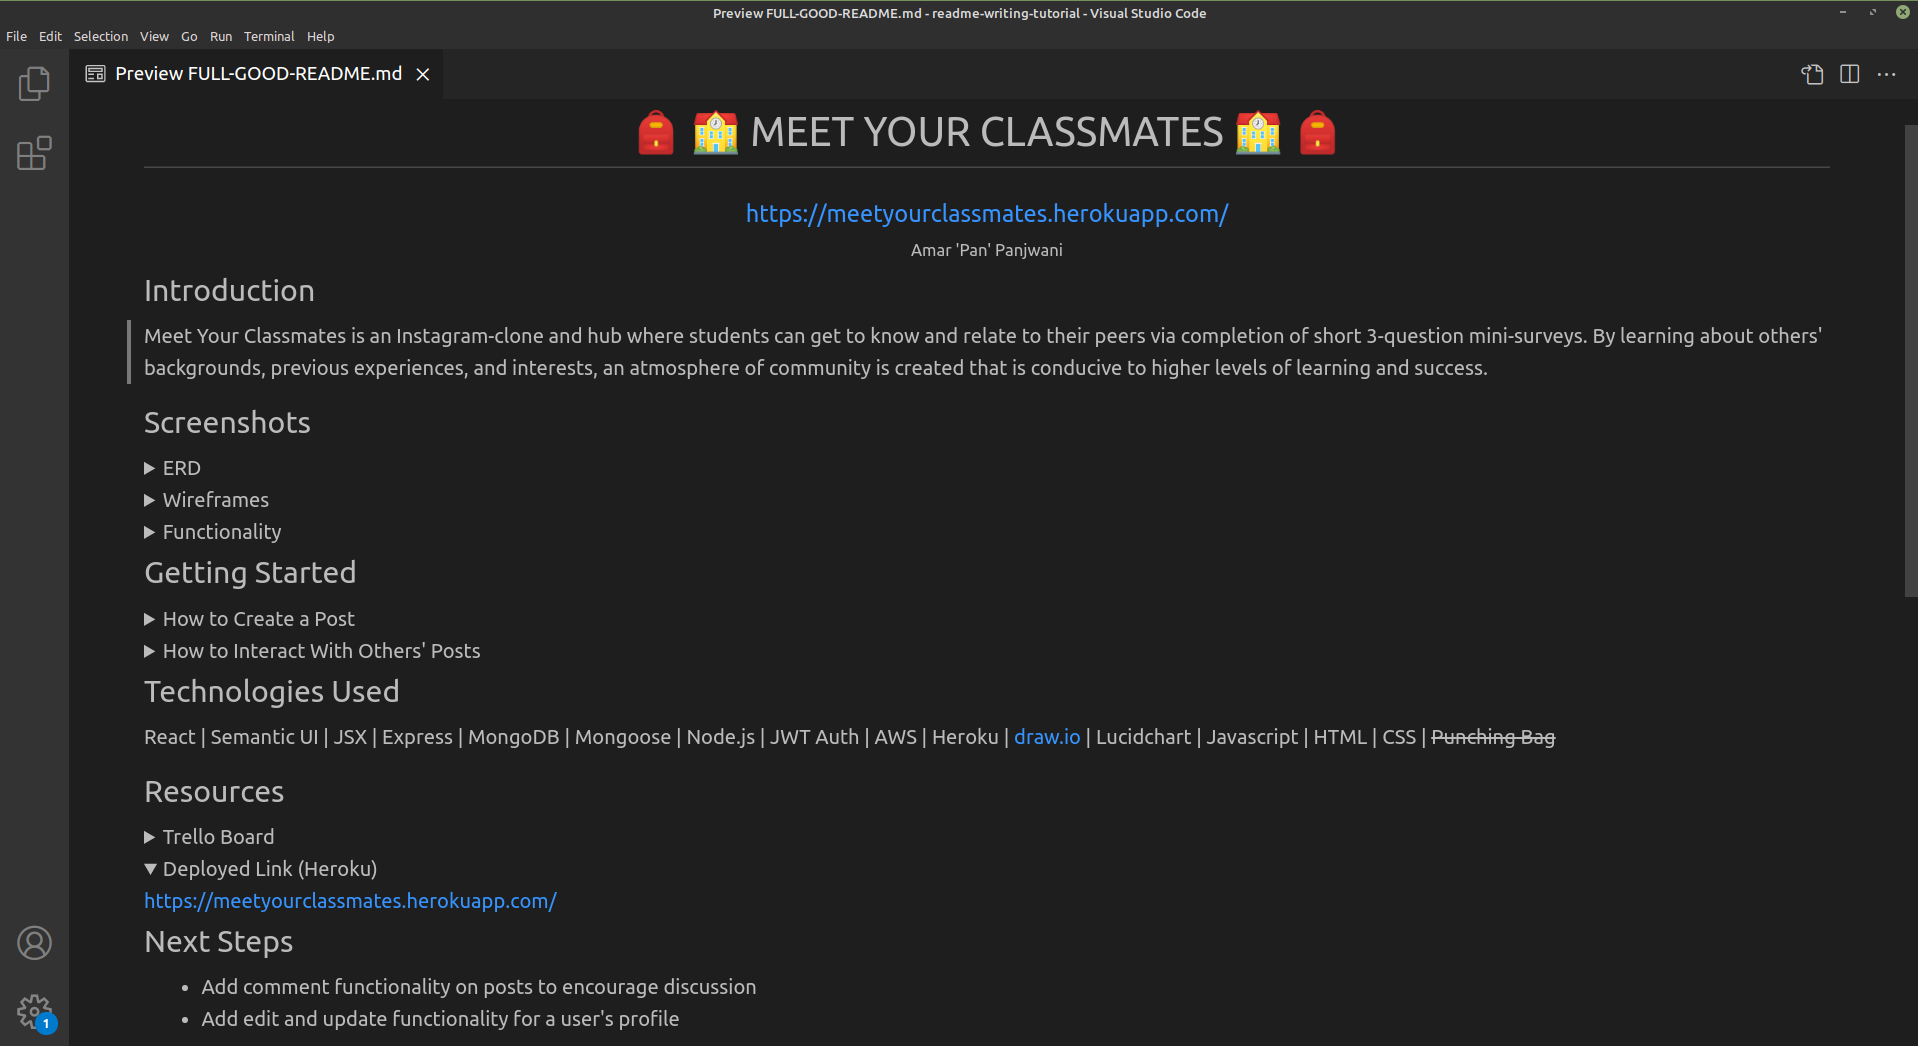
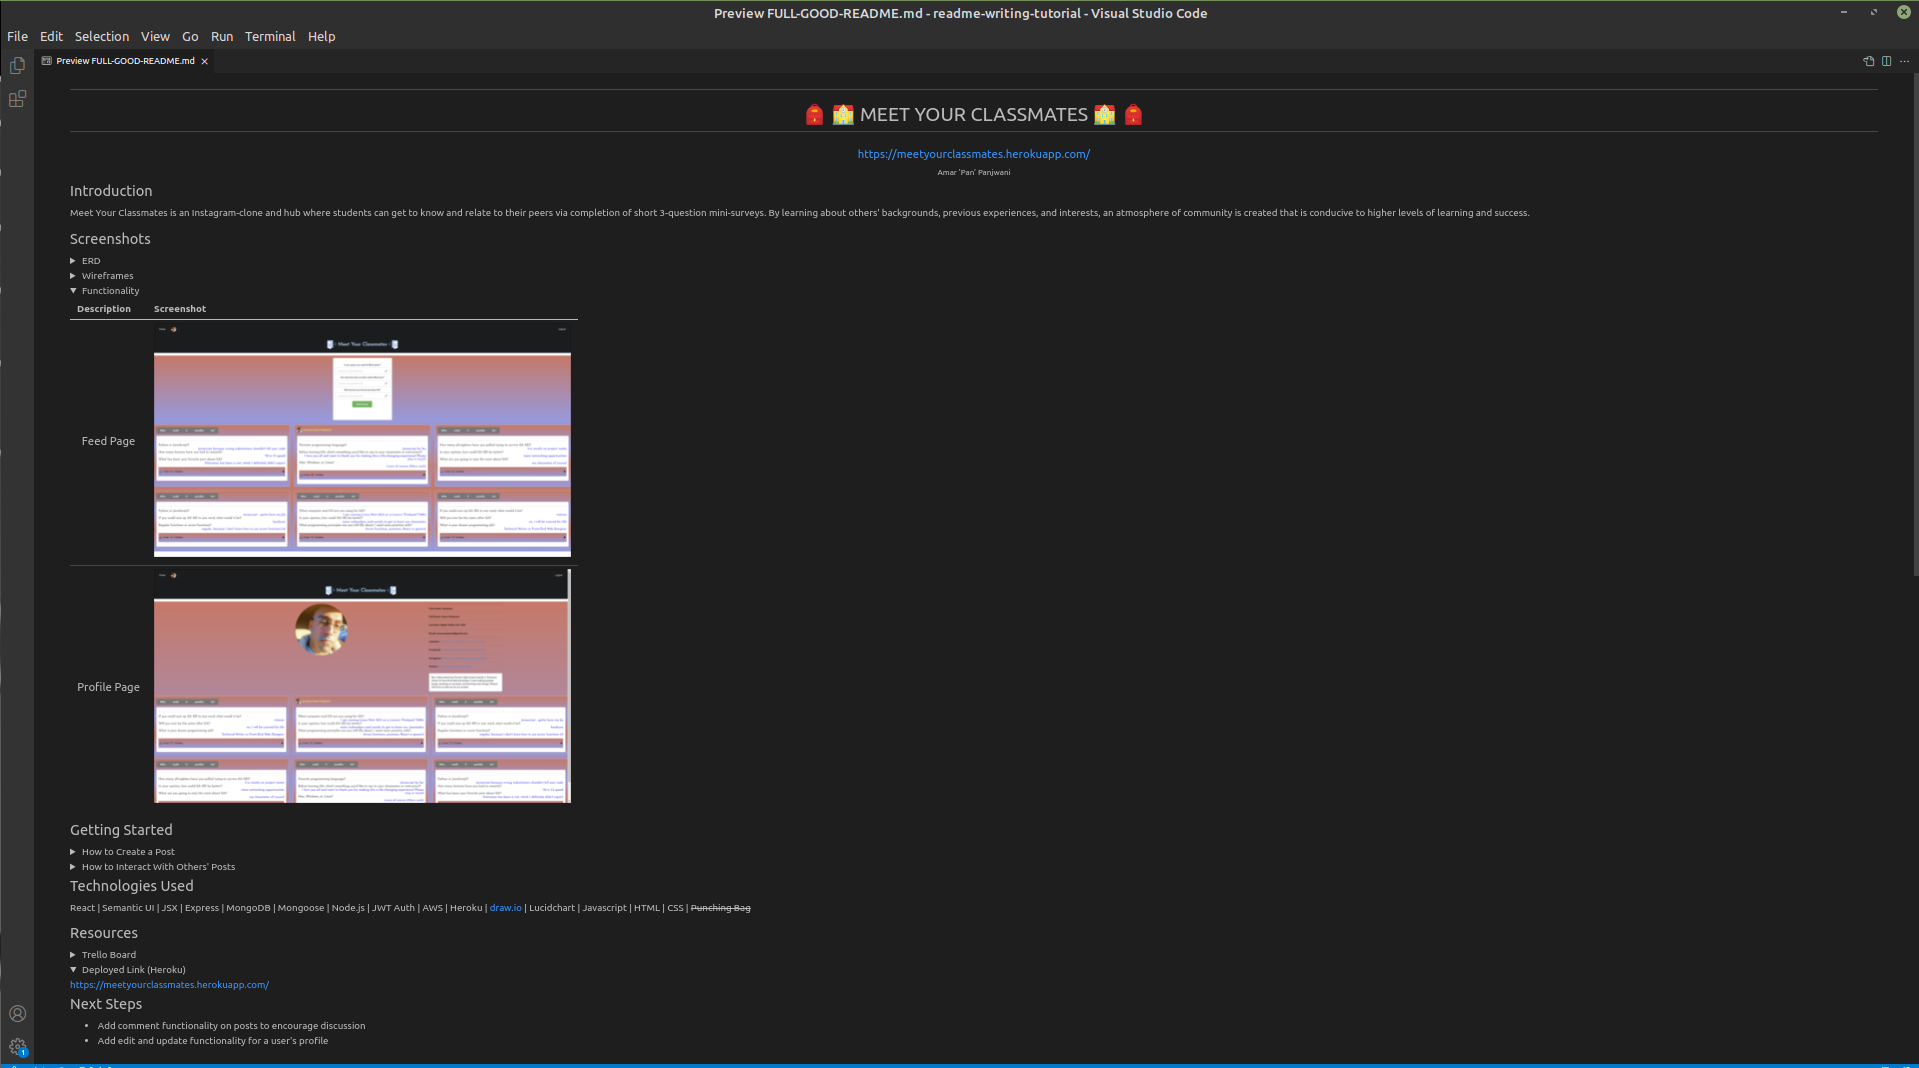
minor edits and update full good readme to show opened functionality screenshots

diff --git a/README.md b/README.md
@@ -1,7 +1,7 @@
-# <h1 align="center">How to Fix a README</h1>
+# <h1 align="center">How to Fix a GA Bootcamp Project README</h1>
 <!-- ###### <h6 align="center">by</h6> -->
 ###### <h6 align="center"> [Amar Pan - GA SEI '21](https://www.linkedin.com/in/amarpan/)</h6>
-The README is often the most overlooked and shunned aspect of a web dev project. And yet, it is what employers directly look at when assessing one's technical competency as a software engineer.
+The README is often the most overlooked and shunned aspect of a web dev project, frequently left until the very last minute. And yet, it is what employers directly look at when assessing one's technical competency as a software engineer.
 
 Thus, today we'll take a look at how to clean-up an existing README so that it becomes eye-candy rather than an eye-sore.   
 
@@ -21,8 +21,8 @@ Thus, today we'll take a look at how to clean-up an existing README so that it b
 |            | Instructions |
 |------------|--------------|
 | Note:      | Each `#` stands for a header of that number in HTML. | 
-|            | Ex. `#` is equivalent to \<h1>. |
-|            | Ex. `######` is equivalent to \<h6>.|
+|            | Ex. `#` is equivalent to `<h1>` |
+|            | Ex. `######` is equivalent to `<h6>`|
 | Note:      | Integrate styling with `<h1 align="center">` to center text. |
 | Note:      | Add your deployed link directly to the top here - many users won't scroll all the way down to find it.
 | Note:      | Use emojis by typing in `:emojiname:` Ex. `:school:` ---> :school:

diff --git a/markdowns/FULL-GOOD-README.md b/markdowns/FULL-GOOD-README.md
@@ -1,5 +1,5 @@
 # <h1 align="center">:school_satchel: :school: MEET YOUR CLASSMATES :school: :school_satchel: </h1>
- #### <h3 align="center">https://meetyourclassmates.herokuapp.com/</h3>
+### <h3 align="center">https://meetyourclassmates.herokuapp.com/</h3>
  <h5 align="center">Amar 'Pan' Panjwani</h5>
 
 ## Introduction
@@ -27,7 +27,7 @@ Meet Your Classmates is an Instagram-clone and hub where students can get to kno
  
 </details>
 
-<details>
+<details open>
  <summary>Functionality</summary>
  
  | Description | Screenshot |

diff --git a/markdowns/screenshots/BAD-SCREENSHOTS.md b/markdowns/screenshots/BAD-SCREENSHOTS.md
@@ -1,4 +1,4 @@
 ## Screenshots
-<!-- Make screenshots all different sizes -->
-![Screenshot of home page](https://github.com/amarpan/meet-your-classmates/raw/main/public/Screenshots/ERD.MYC.png)   
-![Screenshot of Profile](https://github.com/amarpan/meet-your-classmates/raw/main/public/Screenshots/Homepage.Wireframe.MYC.png)
+
+![ERD](https://github.com/amarpan/meet-your-classmates/raw/main/public/Screenshots/ERD.MYC.png)   
+![Feed Page](https://github.com/amarpan/meet-your-classmates/raw/main/public/Screenshots/FeedPage.png)

diff --git a/markdowns/header/GOOD-HEADER.md b/markdowns/header/GOOD-HEADER.md
@@ -1,3 +1,3 @@
 # <h1 align="center">:school_satchel: :school: MEET YOUR CLASSMATES :school: :school_satchel: </h1>
- #### <h3 align="center">https://meetyourclassmates.herokuapp.com/</h3>
- <h5 align="center">Amar 'Pan' Panjwani</h5>
+### <h3 align="center">https://meetyourclassmates.herokuapp.com/</h3>
+##### <h5 align="center">Amar 'Pan' Panjwani</h5>
